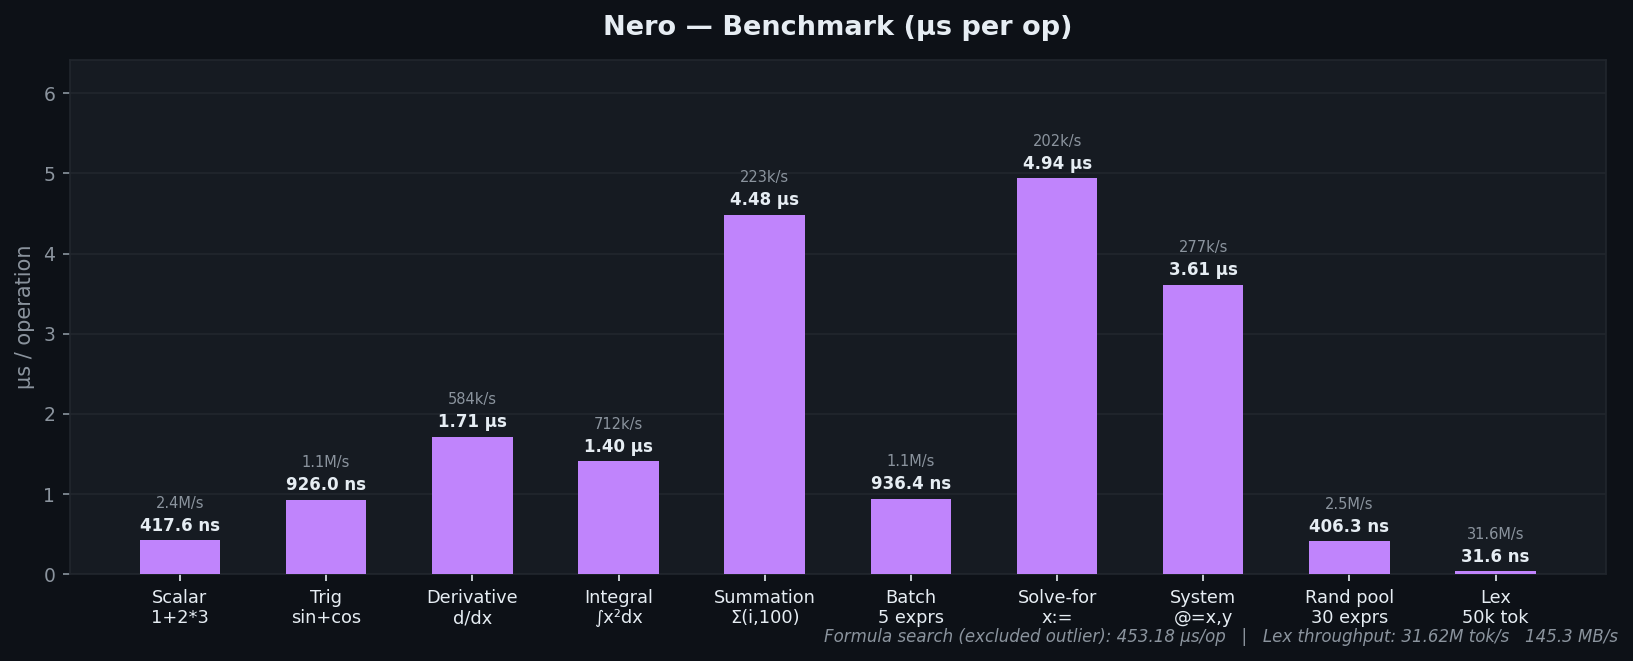
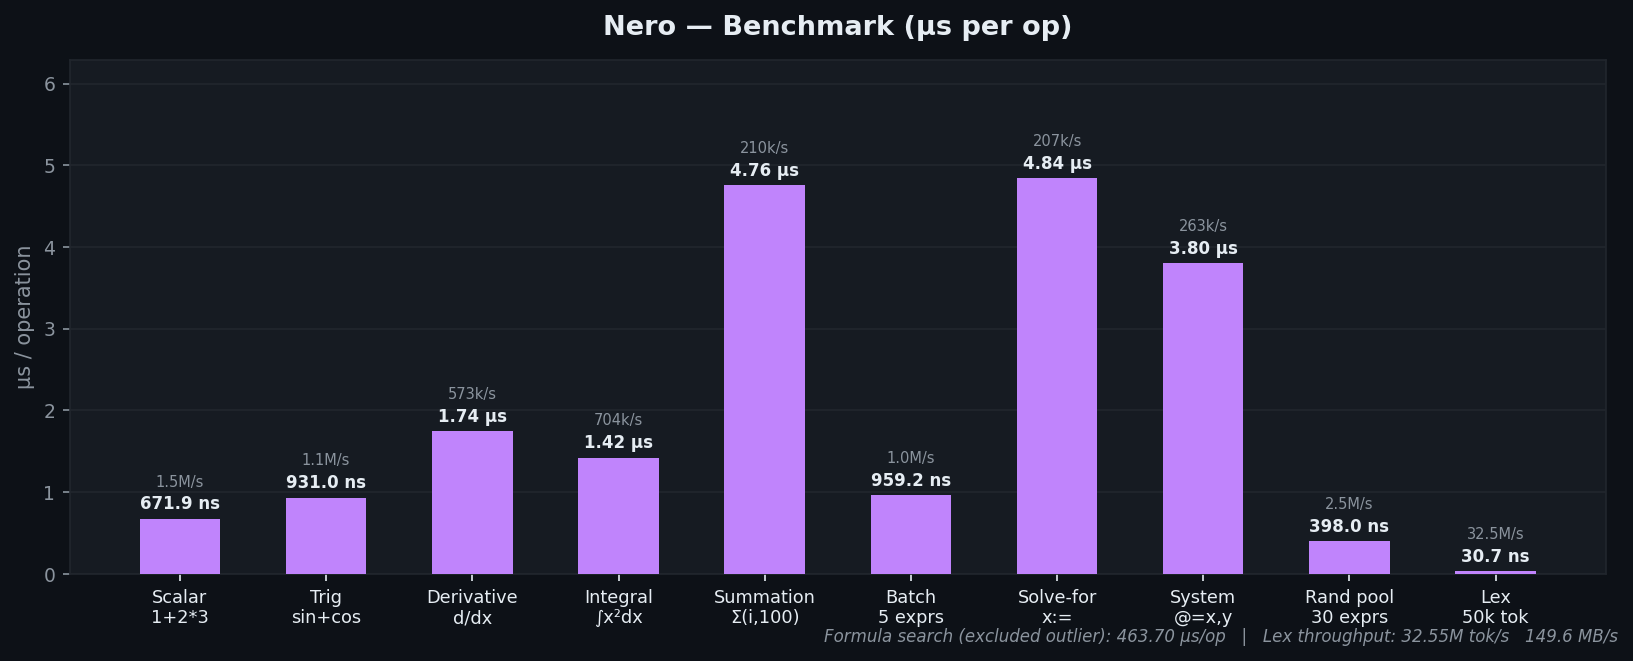
fix: comments and evaluator constants

diff --git a/src/evaluator.cpp b/src/evaluator.cpp
@@ -39,9 +39,9 @@ nero::Evaluator::Evaluator(){
         {"e", "2.718281828459", "1"},
         {"e_c", "1.602*10^{-19}", "\\C"},
         {"e_0", "8.854187817*10^{-12}", "\\frac{\\F}{\\m}"},
-        {"\\epsilon_0", "8.854187817*10^{-12}", "\\frac{\\F}{\\m}"},
+        {"epsilon_0", "8.854187817*10^{-12}", "\\frac{\\F}{\\m}"},
         {"k_e", "8.99*10^9", "\\frac{\\N\\m^2}{\\C^2}"},
-        {"\\mu_0", "4\\pi*10^{-7}", "\\frac{\\H}{\\m}"},
+        {"mu_0", "4\\pi*10^{-7}", "\\frac{\\H}{\\m}"},
         
         {"c", "2.99792458*10^8", "\\frac{\\m}{\\s}"},
         {"m_e", "9.1093837*10^{-31}", "\\kg"},
@@ -54,7 +54,7 @@ nero::Evaluator::Evaluator(){
         {"h", "6.62607015*10^{-34}", "\\J\\s"},
         {"a_0", "5.291772*10^{-11}", "\\m"},
         {"N_A", "6.022*10^{23}", "\\mol^{-1}"},
-        {"\\alpha", "7.2973525693*10^{-3}", "1"}
+        {"alpha", "7.2973525693*10^{-3}", "1"}
     };
     for(const auto &expression : const_expressions){
         insert_constant(expression.identifier, expression);

diff --git a/src/ast.cpp b/src/ast.cpp
@@ -172,7 +172,6 @@ nero::MaybeEValue nero::AST::evaluate(const AST *ast, nero::Evaluator &evalulato
             if(!lhs) return lhs;
             auto rhs = expr.rhs->evaluate(evalulator);
             if(!rhs) return rhs;
-            // Returns UnitValueList {lhs+rhs, lhs-rhs}
             UnitValue l = as_uv(*lhs), r = as_uv(*rhs);
             UnitValueList result;
             result.elements = {l - r, l + r};

diff --git a/README.md b/README.md
@@ -31,7 +31,7 @@ cmake --build build-wasm
 C:\msys64\usr\bin\bash.exe -lc "cd '$(pwd)' && cmake --build build"
 ```
 
-### Add built WASM library to HMTL
+### Add built WASM library to HTML
 ```html
 <!DOCTYPE html>
 <html lang="en">
@@ -243,17 +243,17 @@ Supported:
 
 | Benchmark      | µs / op    | ops / sec    | op unit |
 | -------------- | ---------- | ------------ | ------- |
-| Scalar         | 0.42 µs    | 2.39 M/s     | op      |
-| Trig           | 0.93 µs    | 1.08 M/s     | op      |
-| Derivative     | 1.71 µs    | 584.5 k/s    | op      |
-| Integral       | 1.40 µs    | 712.3 k/s    | op      |
-| Summation      | 4.48 µs    | 223.0 k/s    | op      |
-| Batch          | 0.94 µs    | 1.07 M/s     | expr    |
-| Formula search | 453.18 µs  | 2.2 k/s      | op      |
-| Solve-for      | 4.94 µs    | 202.4 k/s    | op      |
-| System solver  | 3.61 µs    | 277.0 k/s    | op      |
-| Random pool    | 0.41 µs    | 2.46 M/s     | expr    |
-| Lex            | 0.03 µs    | 31.62 M/s    | token   |
+| Scalar         | 0.67 µs    | 1.49 M/s     | op      |
+| Trig           | 0.93 µs    | 1.07 M/s     | op      |
+| Derivative     | 1.74 µs    | 573.4 k/s    | op      |
+| Integral       | 1.42 µs    | 704.2 k/s    | op      |
+| Summation      | 4.76 µs    | 210.3 k/s    | op      |
+| Batch          | 0.96 µs    | 1.04 M/s     | expr    |
+| Formula search | 463.70 µs  | 2.2 k/s      | op      |
+| Solve-for      | 4.84 µs    | 206.6 k/s    | op      |
+| System solver  | 3.80 µs    | 263.2 k/s    | op      |
+| Random pool    | 0.40 µs    | 2.51 M/s     | expr    |
+| Lex            | 0.03 µs    | 32.55 M/s    | token   |
 
 <details>
 <summary>Raw numbers</summary>
@@ -261,20 +261,20 @@ Supported:
 ```
 === Nero Benchmarks ===
 
-Scalar: 1 + 2 * 3                                           41.76 ms       2394517/s
-Trig: sin(pi/6) + cos(pi/3)                                 46.30 ms       1079839/s
-Derivative: d/dx(x^3) at x=2                                17.11 ms        584482/s
-Integral: int_0^1 x^2 dx                                     7.02 ms        712162/s
-Summation: sum_{i=1}^{100}(i)                               22.42 ms        223053/s
-Batch (5 unit-carrying exprs)                               46.82 ms        213597/s
-Formula search (acceleration target)                       453.18 ms          2207/s
-Solve-for: x^2 - 4 ; x :=                                   14.82 ms        202476/s
-System solver: x+y=5, x-y=1 ; @=x,y                          7.22 ms        277181/s
-Random pool (30 exprs, 1000 rounds)                         12.19 ms         82023/s
+Scalar: 1 + 2 * 3                                           67.19 ms       1488330/s
+Trig: sin(pi/6) + cos(pi/3)                                 46.55 ms       1074114/s
+Derivative: d/dx(x^3) at x=2                                17.44 ms        573255/s
+Integral: int_0^1 x^2 dx                                     7.10 ms        703742/s
+Summation: sum_{i=1}^{100}(i)                               23.78 ms        210301/s
+Batch (5 unit-carrying exprs)                               47.96 ms        208507/s
+Formula search (acceleration target)                       463.70 ms          2157/s
+Solve-for: x^2 - 4 ; x :=                                   14.52 ms        206613/s
+System solver: x+y=5, x-y=1 ; @=x,y                          7.60 ms        263325/s
+Random pool (30 exprs, 1000 rounds)                         11.94 ms         83740/s
 
 --- Lex Throughput ---
-Lex: 50k-token string (all token types)                    790.66 ms           632/s
-  Tokens/sec: 31.62M   Throughput: 145.3 MB/s
+Lex: 50k-token string (all token types)                    768.05 ms           651/s
+  Tokens/sec: 32.55M   Throughput: 149.6 MB/s
 ```
 
 </details>
